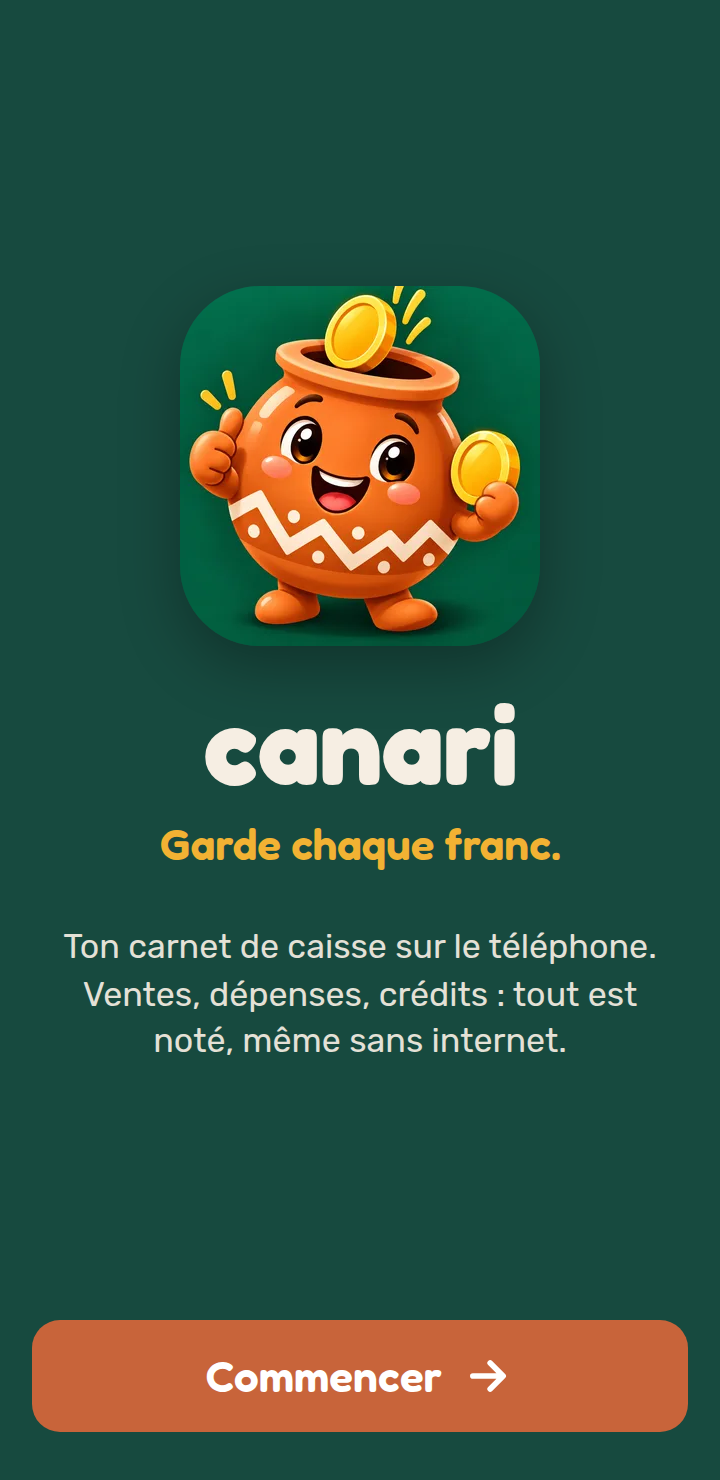
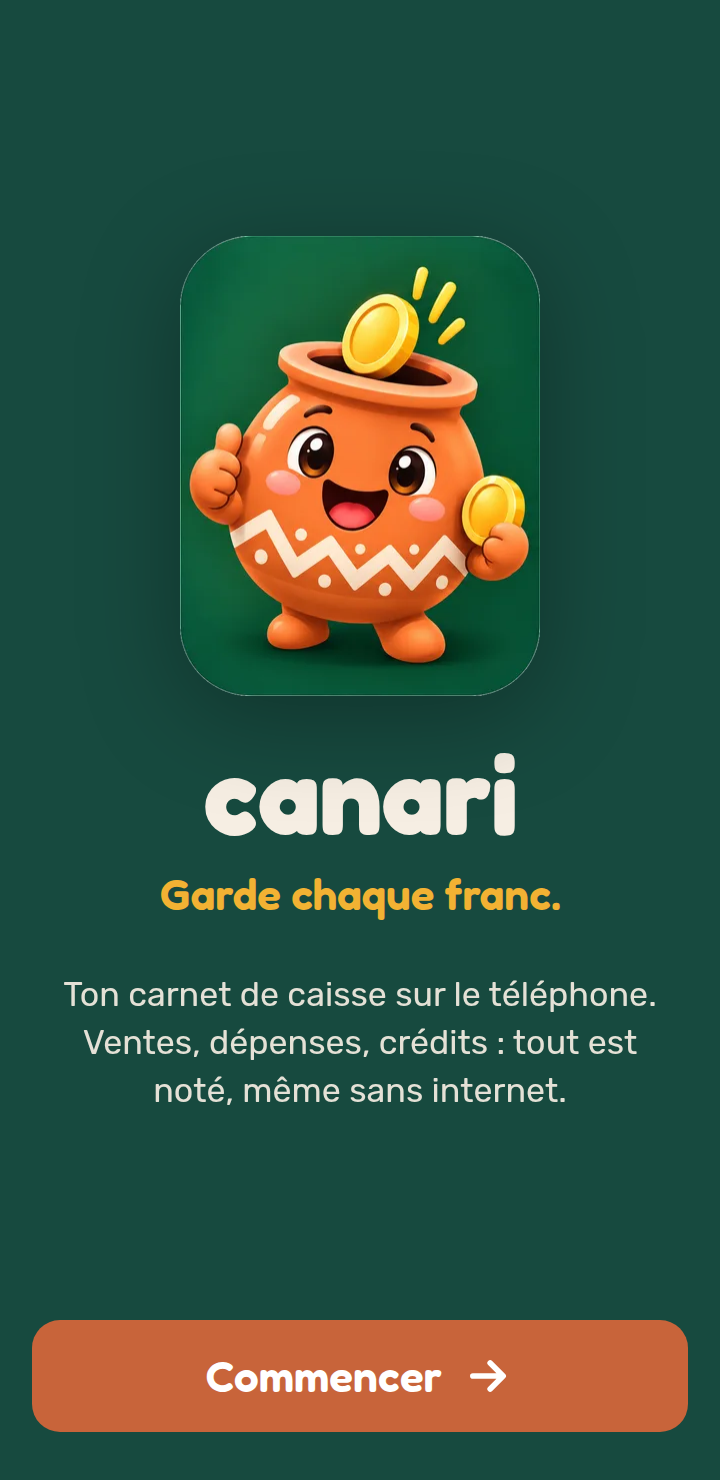
Ajoute les humeurs de la mascotte et les utilise sur l'accueil et l'écran vide
Claude-Session: https://claude.ai/code/session_01PfKkiZ2n3fuYpPbiXkQyrt

Changed region(s): [[0.0917, 0.1554, 0.9167, 0.7459], [0.2444, 0.4041, 0.3056, 0.4351]]

diff --git a/app/index.html b/app/index.html
@@ -17,7 +17,7 @@
 <!-- Écran d'accueil (première ouverture) -->
 <section id="accueil" class="ecran accueil" hidden>
   <div class="accueil-centre">
-    <img class="accueil-mascotte" src="icones/canari-joyeux.webp" width="180" height="180" alt="Petit Canari, la jarre souriante">
+    <img class="accueil-mascotte" src="icones/mascotte-canari-3d.webp" width="180" height="230" alt="Petit Canari, la jarre souriante">
     <h1 class="logo">canari</h1>
     <p class="slogan">Garde chaque franc.</p>
     <p class="accueil-texte">Ton carnet de caisse sur le téléphone. Ventes, dépenses, crédits : tout est noté, même sans internet.</p>
@@ -67,7 +67,7 @@
   </div>
 
   <div class="vide">
-    <img src="icones/canari-joyeux.webp" width="96" height="96" alt="">
+    <img src="icones/canari-tranquille.webp" width="96" height="114" alt="">
     <p>Rien de noté aujourd'hui.<br>Appuie sur <strong>Vente</strong> quand un client paie.</p>
   </div>
 </section>

diff --git a/app/sw.js b/app/sw.js
@@ -1,6 +1,6 @@
 // Garde une copie de l'appli sur le téléphone pour qu'elle marche sans internet.
 // Change VERSION à chaque mise à jour pour que les téléphones prennent les nouveaux fichiers.
-const VERSION = "canari-v1";
+const VERSION = "canari-v2";
 const FICHIERS = [
   "./",
   "index.html",
@@ -10,6 +10,11 @@ const FICHIERS = [
   "polices/fredoka.woff2",
   "polices/rubik.woff2",
   "icones/canari-joyeux.webp",
+  "icones/mascotte-canari-3d.webp",
+  "icones/canari-clin-doeil.webp",
+  "icones/canari-yeux-fermes.webp",
+  "icones/canari-tranquille.webp",
+  "icones/canari-pensif.webp",
   "icones/icone-180.png",
   "icones/icone-192.png",
   "icones/icone-512.png",

diff --git a/app/style.css b/app/style.css
@@ -77,9 +77,8 @@ body {
 }
 .accueil-mascotte {
   width: 180px;
-  height: 180px;
-  border-radius: 40px;
-  box-shadow: 0 10px 30px rgba(0, 0, 0, .3);
+  height: auto;
+  filter: drop-shadow(0 10px 24px rgba(0, 0, 0, .3));
   margin-bottom: 12px;
 }
 .accueil .logo { font-size: 56px; line-height: 1; }
@@ -230,7 +229,7 @@ body {
   margin-top: 28px;
   color: #5A4636;
 }
-.vide img { border-radius: 22px; opacity: .95; }
+.vide img { height: auto; }
 .vide p { margin: 10px 0 0; }
 
 /* ---------- Message bref ---------- */

diff --git a/images/LISEZMOI.md b/images/LISEZMOI.md
@@ -1,9 +1,12 @@
 # Images de Canari
 
-Dépose ici les images de la mascotte (format PNG) :
+| Fichier | Humeur | Où l'utiliser |
+|---|---|---|
+| `canari-joyeux.png` | joyeux, pouce levé | icône de l'appli, vente enregistrée, bon gain |
+| `mascotte-canari-3d.png` | mascotte principale | écran d'accueil |
+| `canari-clin-doeil.png` | clin d'œil | relances |
+| `canari-yeux-fermes.png` | yeux fermés, grand sourire | bonne journée, objectif atteint |
+| `canari-tranquille.png` | tranquille, yeux fermés | écrans neutres, écrans vides |
+| `canari-pensif.png` | pensif, main sur la joue | à définir (par exemple « rien à relancer ») |
 
-- `canari-joyeux.png` (sert aussi d'icône de l'appli)
-- `mascotte-canari-3d.png`
-- `canari-clin-doeil.png`
-- `canari-yeux-fermes.png`
-- `canari-tranquille.png`
+Les versions légères utilisées par l'appli sont dans `app/icones/` (format webp).
